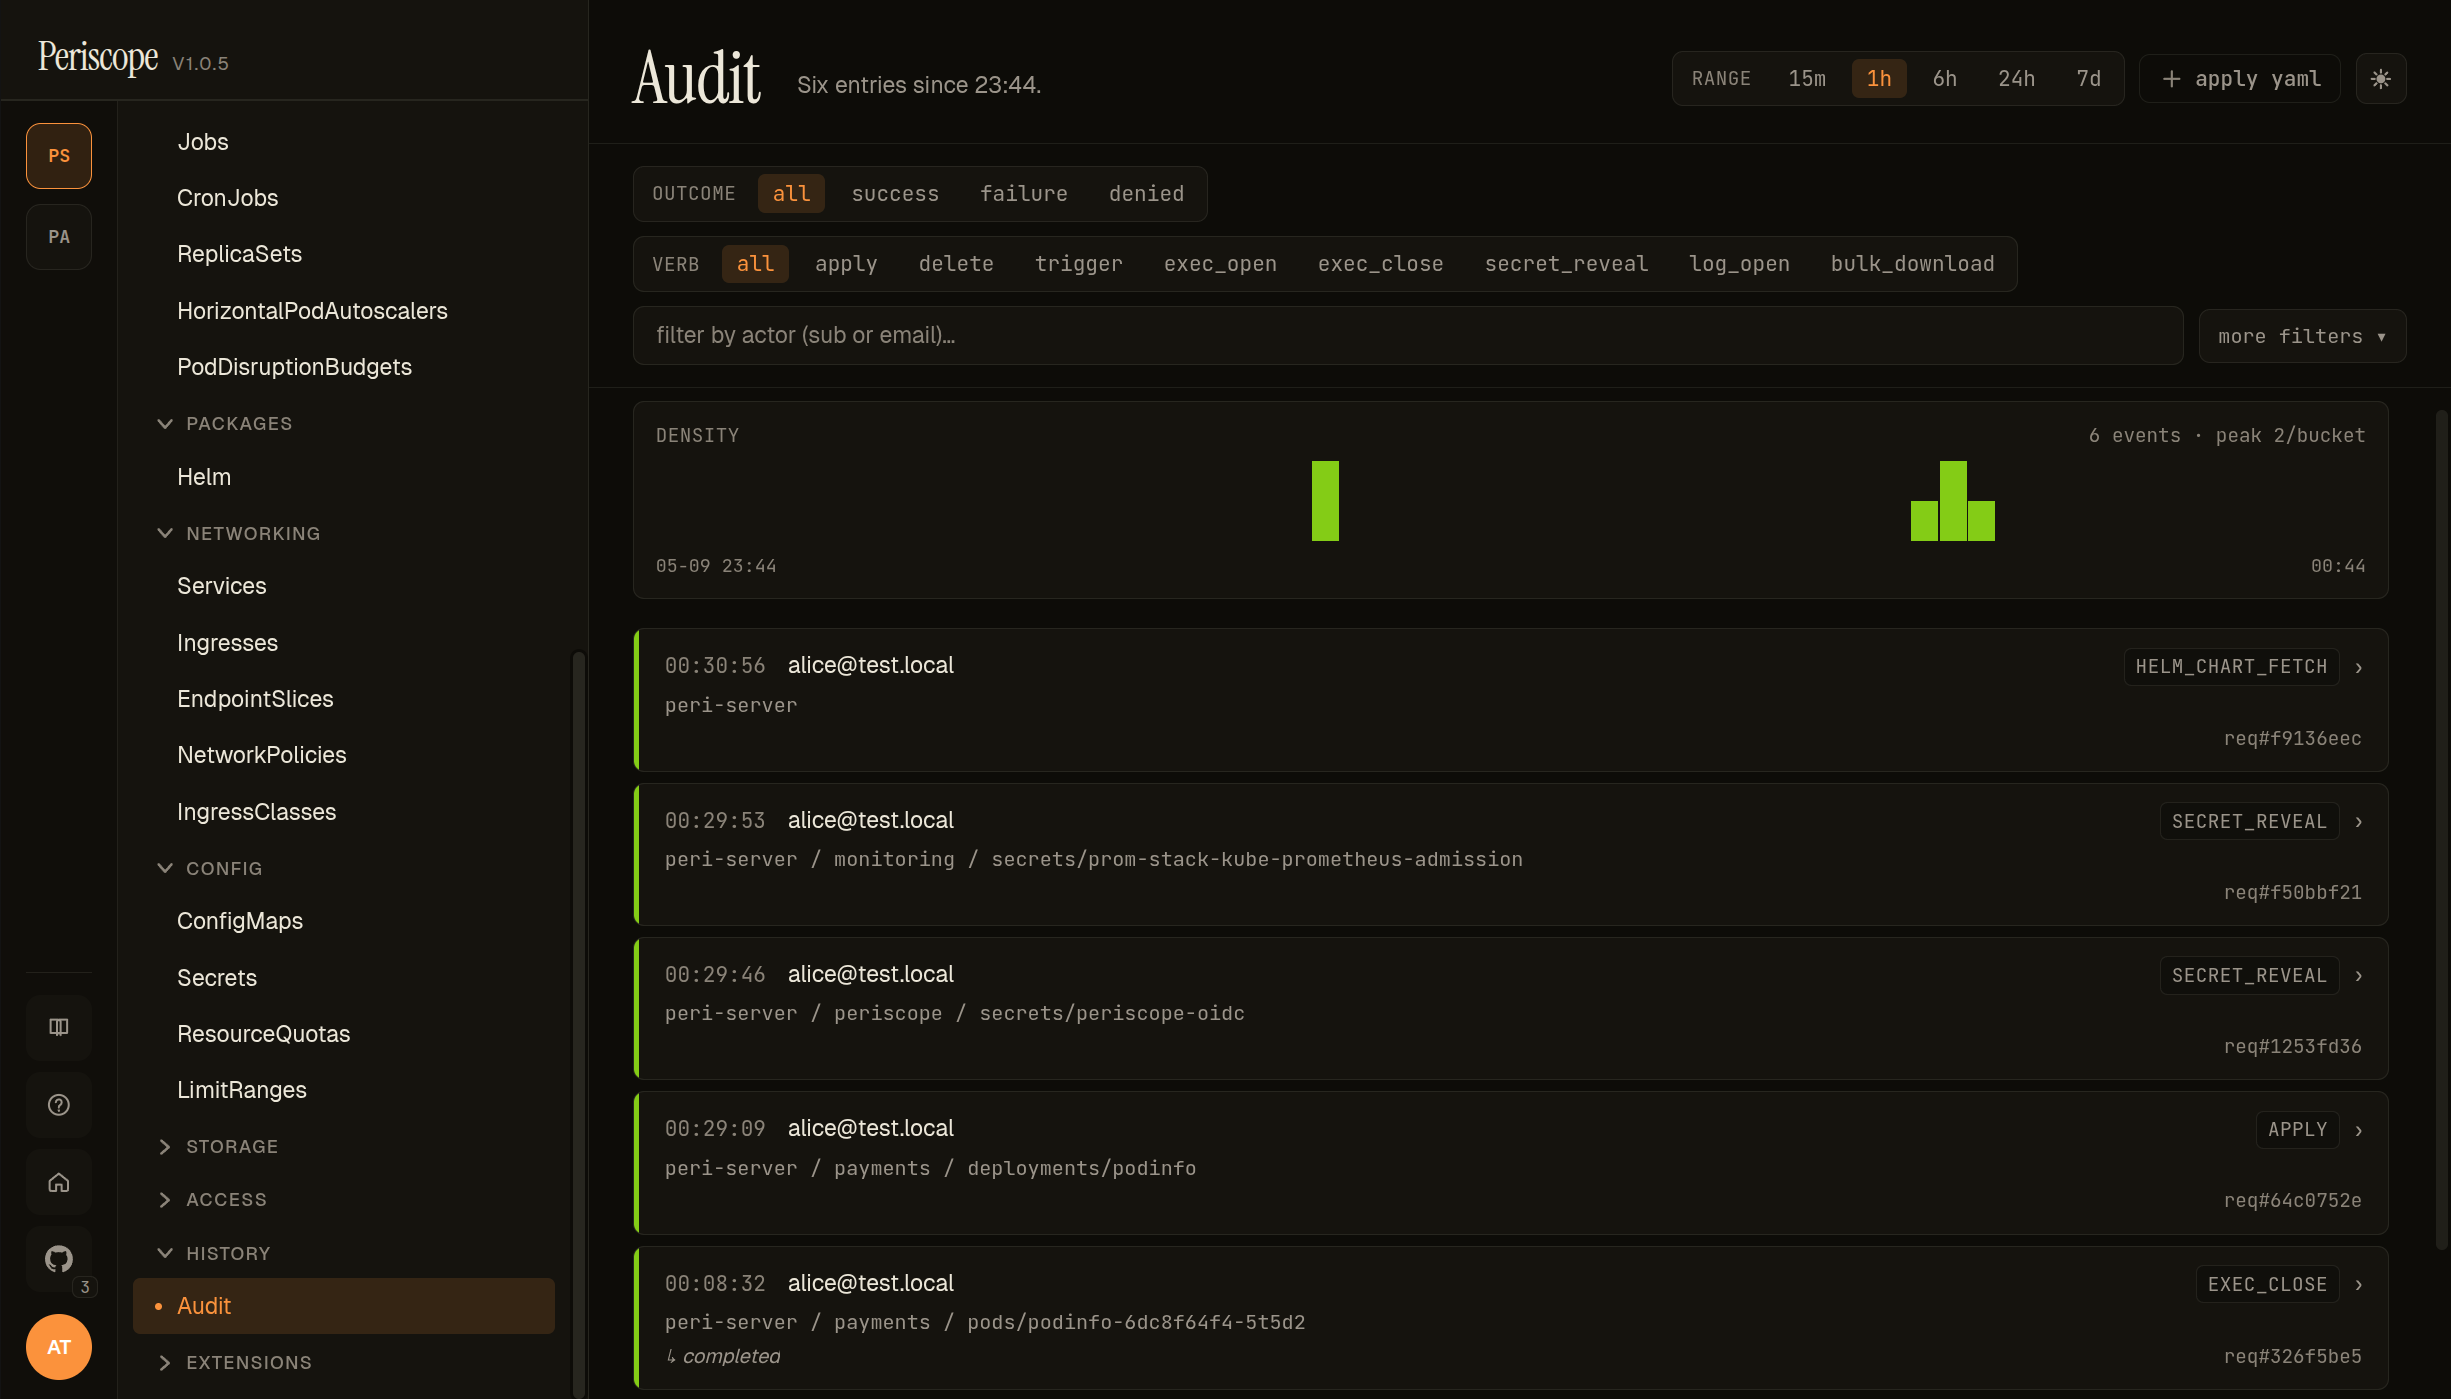
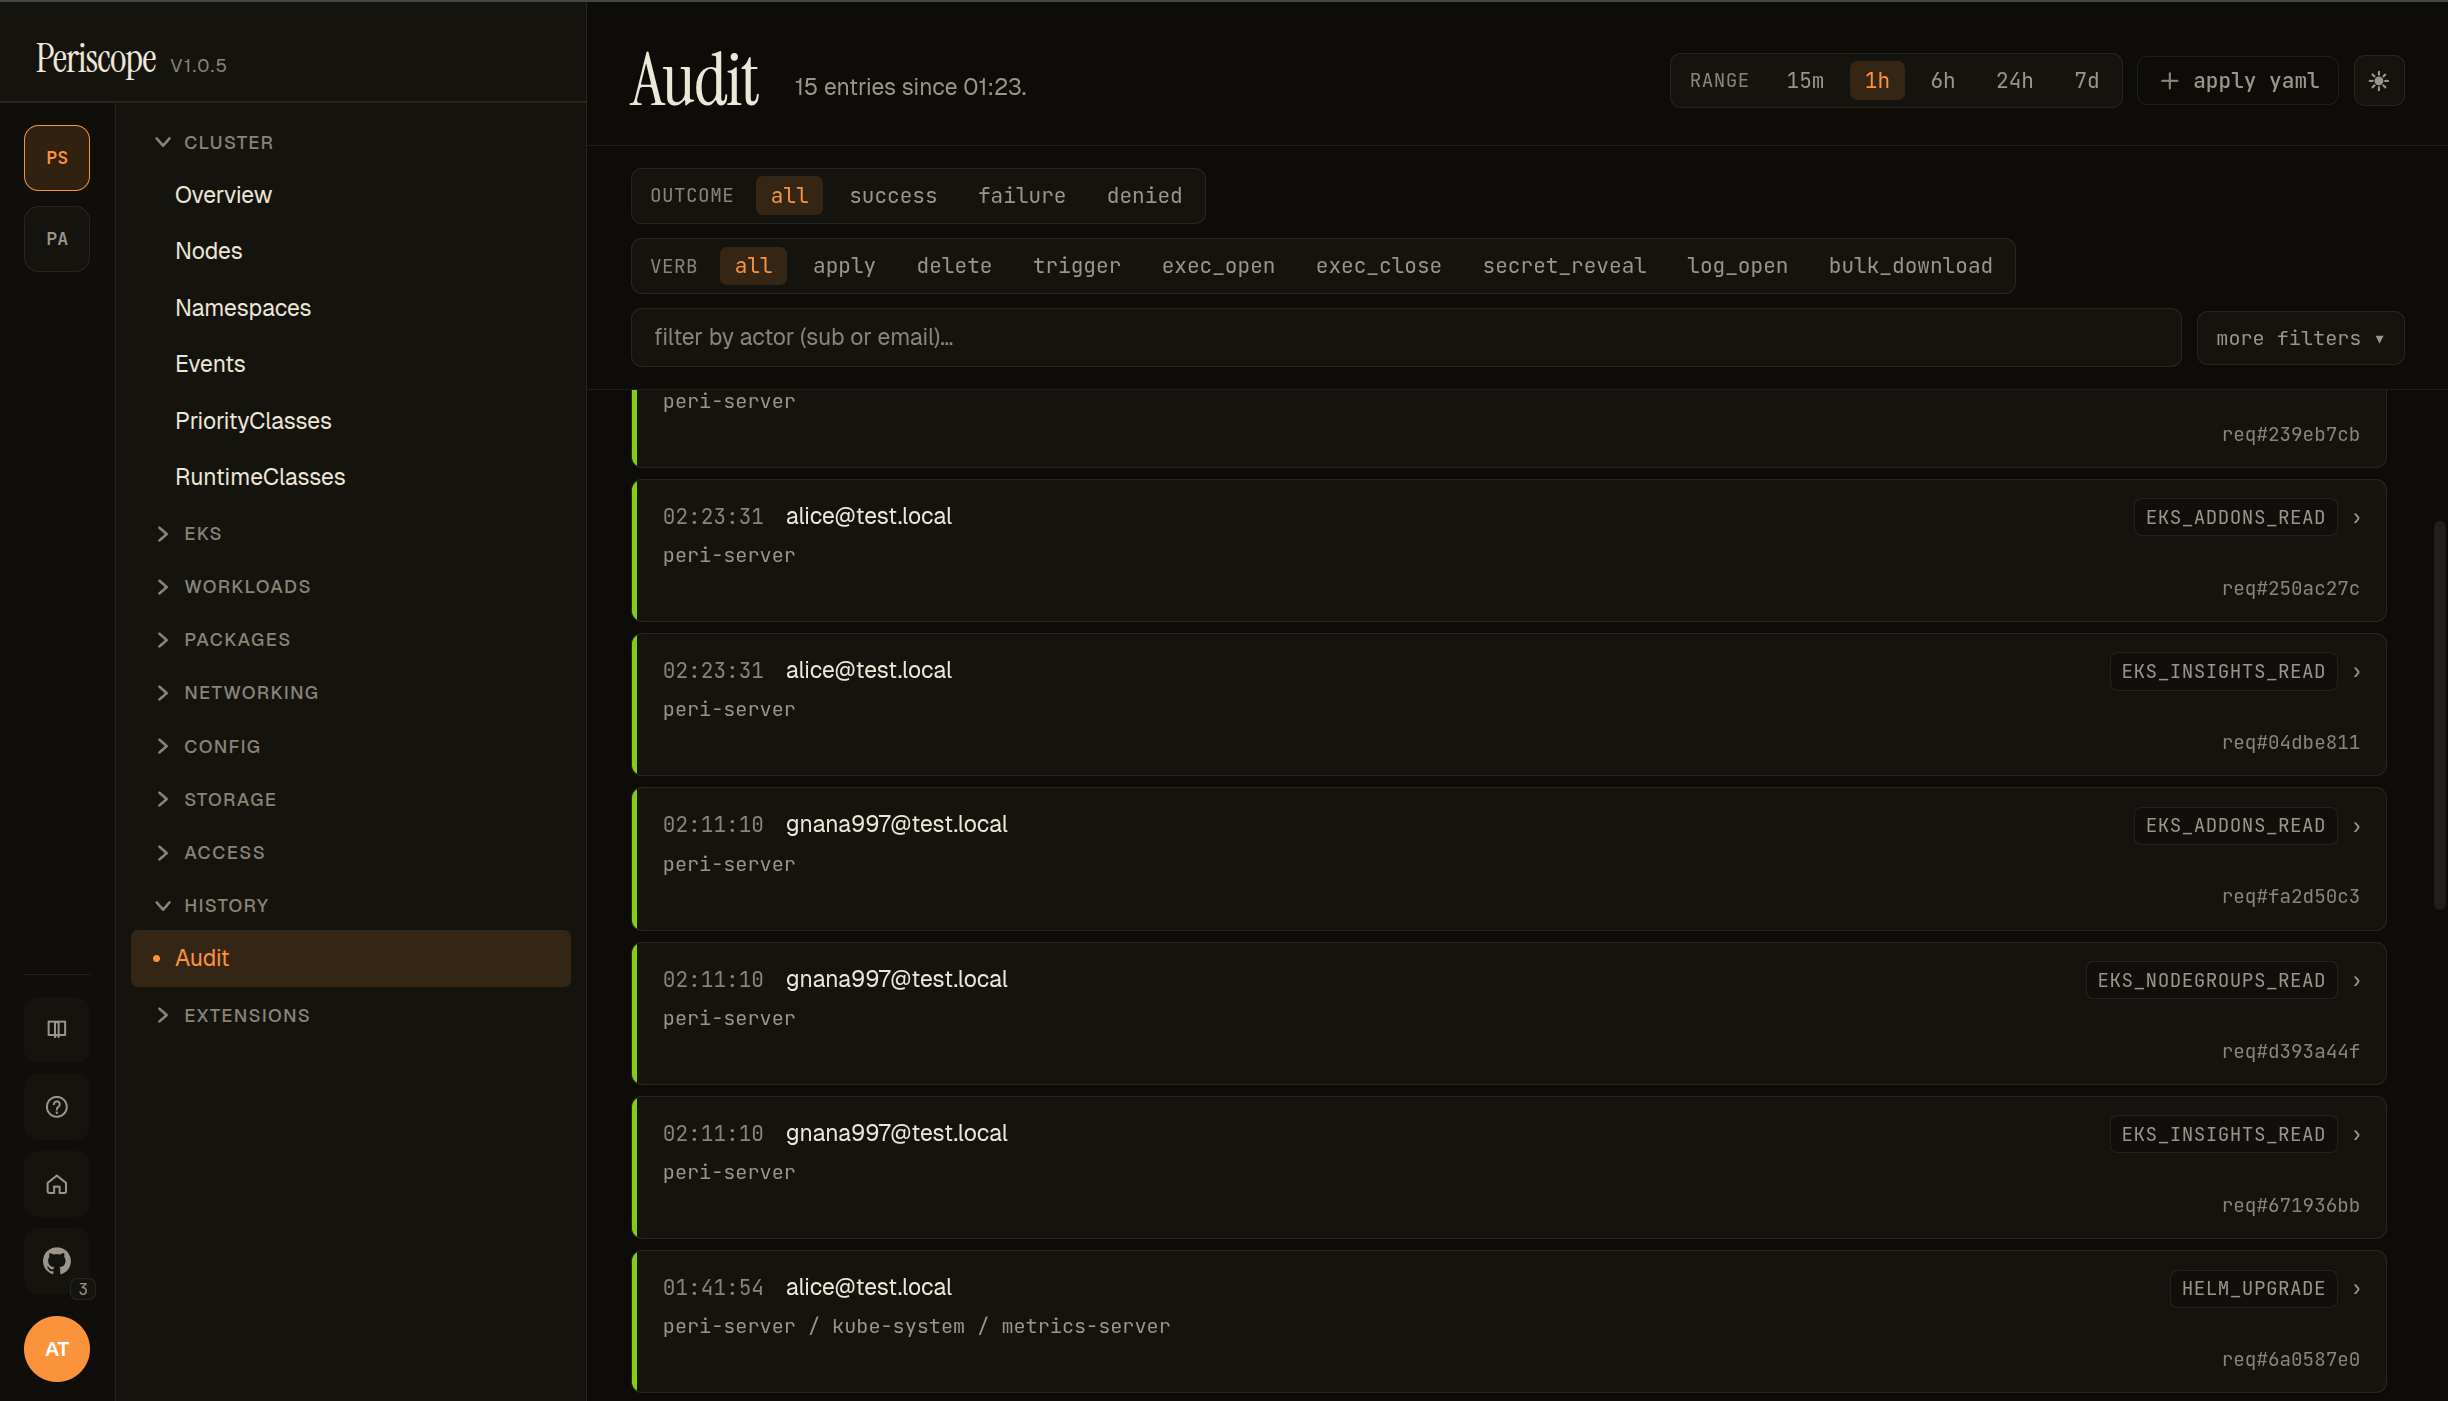
fix(docs): update audit log image description for clarity

diff --git a/docs/setup/audit.md b/docs/setup/audit.md
@@ -21,9 +21,9 @@ and the security model around tamper resistance — see
 
 ### Audit log list
 
-![Audit log filtered to peri-server, last hour](../assets/audit/list.png)
+![Audit log on peri-server, last hour — two-persona feed showing alice@test.local + gnana997@test.local across EKS reads and a HELM_UPGRADE](../assets/audit/list.png)
 
-Each row carries the **timestamp**, **actor** (email + OIDC subject on hover), **cluster · namespace · resource path**, the **verb** in monospace (`HELM_CHART_FETCH`, `SECRET_REVEAL`, `APPLY`, `EXEC_OPEN`, `EXEC_CLASS`, ...), and the request ID for cross-referencing with server logs. Filter strip on top: **time range** (15m / 1h / 6h / 24h / 7d), **outcome** (all / success / failure / denied), **verb** quick-filters (`apply`, `delete`, `trigger`, `exec_open`, `exec_class`, `secret_reveal`, `log_open`, `bulk_download` + more), and a **filter by actor** search.
+Each row carries the **timestamp**, **actor** (email + OIDC subject on hover), **cluster · namespace · resource path**, the **verb** in monospace (`HELM_CHART_FETCH`, `SECRET_REVEAL`, `APPLY`, `EXEC_OPEN`, `EXEC_CLOSE`, ...), and the request ID for cross-referencing with server logs. Filter strip on top: **time range** (15m / 1h / 6h / 24h / 7d), **outcome** (all / success / failure / denied), **verb** quick-filters (`apply`, `delete`, `trigger`, `exec_open`, `exec_close`, `secret_reveal`, `log_open`, `bulk_download` + more), and a **filter by actor** search.
 
 The **density sparkline** above the row list shows event count per bucket so an operator can spot bursts at a glance. Clicking a row opens the event detail.
 
